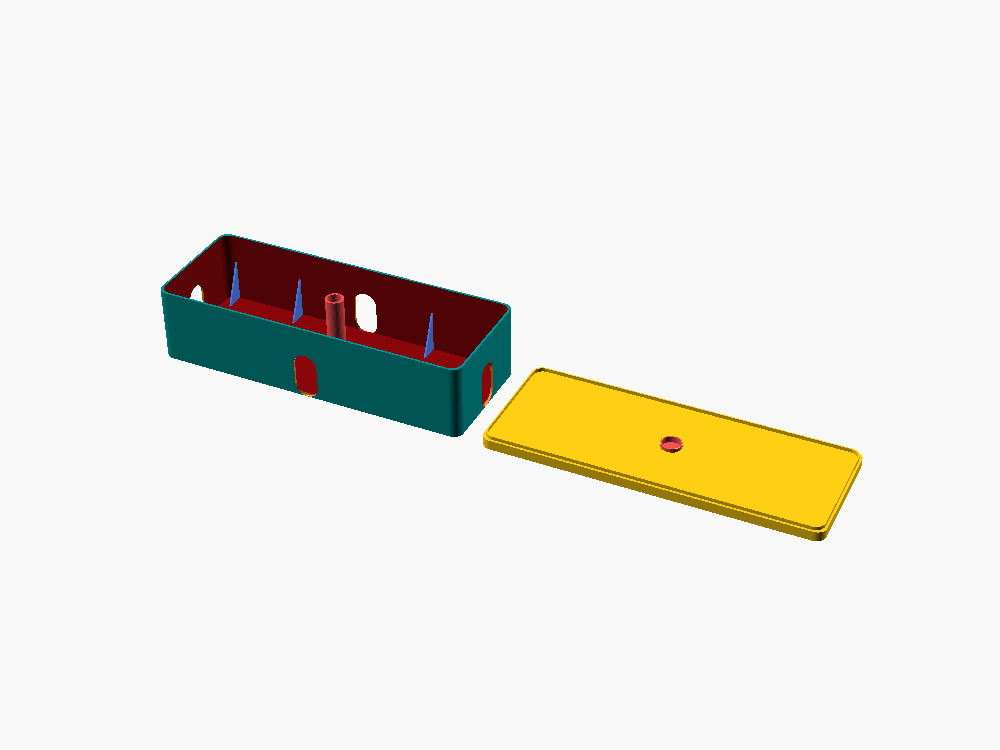
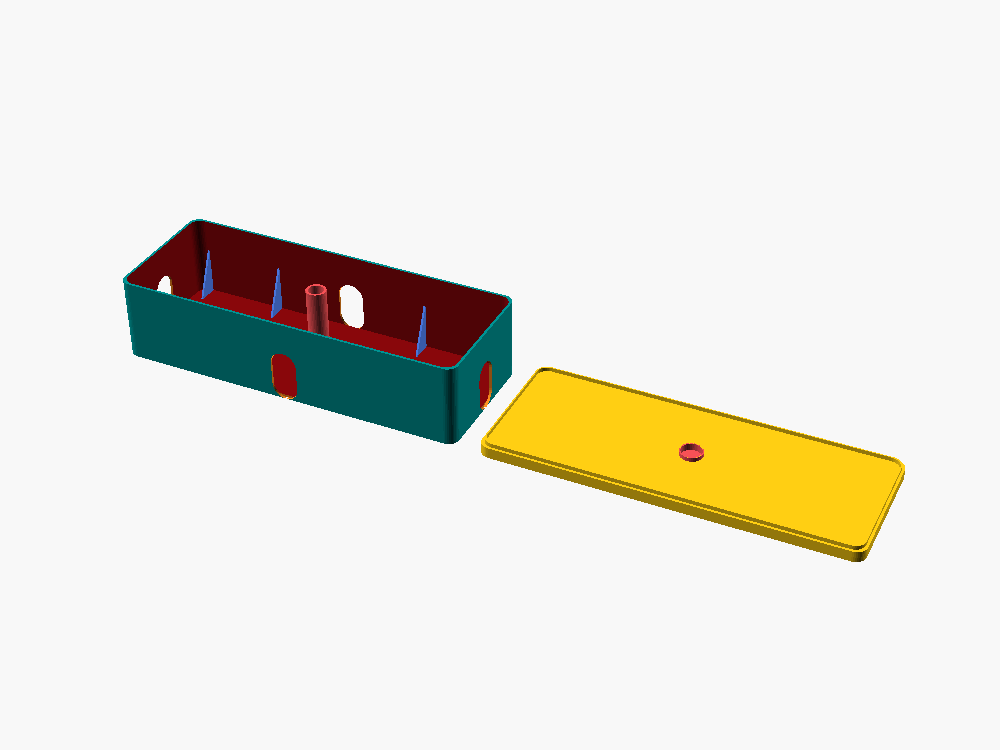
fix: preset JSON rejected by OpenSCAD, and renders that hid preset size
Three changes to the library generator, all visible in what it emits.

Booleans were written as Python's str(True), giving "True" where OpenSCAD
requires "true". Loading such a set fails with

  ERROR: Cannot apply Parameter Set 'conversion of data to type "b" failed'

and OpenSCAD then discards the whole set, not just the offending key. That
broke config.json for every preset carrying a boolean (gridfinity-module,
surge-strip-6-sliced, under-desk-passthrough), via exactly the -p/-P
invocation library/README.md documents. The STLs were unaffected because
defines() already lowercased bools, so only the JSON path was wrong.
Verified by rendering through both paths and comparing bounding boxes.

Preview renders passed --viewall, which zooms each model to fill the frame
and so discards scale. Five of the nine presets differ only in dimensions,
leaving a 265 mm strip and a 120 mm charger looking identical. The
box-and-lid view now renders at one fixed camera distance for every preset,
so the library reads as a size comparison. --autocenter stops centring once
--viewall is gone, and "Box and Lid" puts the lid at +x, so the camera is
aimed at the bounding box centre read back from the STL. The build warns
rather than cropping if a preset ever outgrows the calibrated distance.

Detail views keep --viewall, where only shape matters.

Adds cable-box-parametric.json beside the model: every preset in one file,
so OpenSCAD's Customizer offers them all on open and a web customizer has
[…]

diff --git a/scripts/build_library.py b/scripts/build_library.py
@@ -2,9 +2,9 @@
 """Regenerate the preset library: configs, STLs, preview renders, and the index.
 
 Presets are defined here as data, so adding one is a dict entry. Everything
-downstream (config.json, STLs, PNGs, notes, and library/README.md) is generated,
-which is what keeps the library from going stale the way the hand-made v1
-artifacts did.
+downstream (config.json, STLs, PNGs, notes, library/README.md, and the merged
+cable-box-parametric.json beside the model) is generated, which is what keeps
+the library from going stale the way the hand-made v1 artifacts did.
 
 Presets are organised by what the user physically has, not by dimensions,
 because nobody knows they need 260 x 100 x 60.
@@ -118,11 +118,24 @@ PRESETS = [
     },
 ]
 
+# (slug, part, camera rotation, fixed_scale)
+#
+# A fixed_scale view is rendered without --viewall so every preset shares one
+# camera distance and the library reads as a size comparison. --viewall zooms
+# each model to fill the frame, which made a 265 mm strip and a 120 mm charger
+# occupy identical space. Five of the nine presets differ only in dimensions,
+# so that flag was hiding the only difference they have.
 VIEWS = [
-    ("box-only", "Box Only", "0,0,0,55,0,25"),
-    ("lid-only", "Lid Only", "0,0,0,55,0,25"),
-    ("box-and-lid", "Box and Lid", "0,0,0,55,0,25"),
+    ("box-only", "Box Only", "55,0,25", False),
+    ("lid-only", "Lid Only", "55,0,25", False),
+    ("box-and-lid", "Box and Lid", "55,0,25", True),
 ]
+
+# Calibrated against the widest preset (surge-strip-6, 552 mm across box and
+# lid) so it frames with margin to spare. If a wider preset is ever added the
+# build warns rather than silently cropping it; raise both values then.
+SCALE_DIST = 1300
+SCALE_MAX_SPAN = 600.0
 
 
 def find_openscad() -> str:
@@ -161,7 +174,8 @@ def render(scad: str, out: Path, params: dict, extra: list[str]) -> bool:
     return True
 
 
-def stl_stats(path: Path) -> tuple[float, float, float]:
+def stl_bbox(path: Path):
+    """Axis-aligned bounds as ((x0,x1),(y0,y1),(z0,z1))."""
     xs, ys, zs = [], [], []
     with path.open(errors="replace") as fh:
         for line in fh:
@@ -169,7 +183,45 @@ def stl_stats(path: Path) -> tuple[float, float, float]:
             if line.startswith("vertex"):
                 _, x, y, z = line.split()
                 xs.append(float(x)); ys.append(float(y)); zs.append(float(z))
-    return (max(xs) - min(xs), max(ys) - min(ys), max(zs) - min(zs))
+    return (min(xs), max(xs)), (min(ys), max(ys)), (min(zs), max(zs))
+
+
+def bbox_size(b) -> tuple[float, float, float]:
+    return tuple(hi - lo for lo, hi in b)
+
+
+def bbox_centre(b) -> tuple[float, float, float]:
+    return tuple((lo + hi) / 2 for lo, hi in b)
+
+
+def as_param(v) -> str:
+    """Serialise one value for a Customizer parameter set.
+
+    The format stores everything as strings, but OpenSCAD still type-checks
+    them on load. Python's str(True) is "True", which OpenSCAD rejects with
+    'conversion of data to type "b" failed' and then discards the entire
+    parameter set, so booleans have to be lowercased.
+    """
+    if isinstance(v, bool):
+        return "true" if v else "false"
+    return str(v)
+
+
+def camera_args(rot: str, bbox, label: str) -> list[str]:
+    common = ["--imgsize=1000,750", "--colorscheme=Tomorrow"]
+    if bbox is None:
+        return common + ["--viewall", "--autocenter", f"--camera=0,0,0,{rot},0"]
+
+    cx, cy, cz = bbox_centre(bbox)
+    span = max(bbox_size(bbox))
+    if span > SCALE_MAX_SPAN:
+        print(f"      WARNING: {label} spans {span:.0f} mm, past the "
+              f"{SCALE_MAX_SPAN:.0f} mm that SCALE_DIST={SCALE_DIST} frames. "
+              f"Raise both or this render is cropped.")
+    # --autocenter is deliberately absent as well as --viewall: it stops
+    # centring once --viewall is gone, so aim at the bounding box centre
+    # directly. "Box and Lid" puts the lid at +x, so that centre is not 0.
+    return common + [f"--camera={cx:.2f},{cy:.2f},{cz:.2f},{rot},{SCALE_DIST}"]
 
 
 def main() -> int:
@@ -194,7 +246,7 @@ def main() -> int:
         # config.json carries every override, so it is unambiguous and survives
         # a change to the model defaults.
         cfg = {"fileFormatVersion": "1",
-               "parameterSets": {name: {k: str(v) for k, v in preset["params"].items()}}}
+               "parameterSets": {name: {k: as_param(v) for k, v in preset["params"].items()}}}
         (base / "config.json").write_text(json.dumps(cfg, indent=2) + "\n", encoding="utf-8")
 
         # Gridfinity features live on the underside of both parts, so a
@@ -202,25 +254,28 @@ def main() -> int:
         views = list(VIEWS)
         if preset["params"].get("Enable_Gridfinity_Bottom") or \
            preset["params"].get("Enable_Gridfinity_Lid_Top"):
-            views.append(("underside", "Box and Lid", "0,0,0,125,0,25"))
+            views.append(("underside", "Box and Lid", "125,0,25", False))
 
         dims = None
-        for slug, part, cam in views:
+        for slug, part, rot, fixed in views:
             params = dict(preset["params"], Part_To_Render=part)
+            bbox = None
             if slug != "underside":
                 stl = base / "stl" / f"{name}_{slug}.stl"
                 if not args.no_stl:
-                    if render(scad, stl, params, []) and slug == "box-only":
-                        dims = stl_stats(stl)
-                elif slug == "box-only" and stl.exists():
-                    # Reuse the existing STL so a --no-stl rebuild still gets
-                    # dimensions for the notes and the index table.
-                    dims = stl_stats(stl)
+                    render(scad, stl, params, [])
+                # Read back what we need: box-only gives the printed envelope
+                # for the notes and index, and a fixed-scale view needs its own
+                # bounds to aim the camera. Reusing an existing STL is what lets
+                # --no-stl still produce both.
+                if stl.exists() and (fixed or slug == "box-only"):
+                    bbox = stl_bbox(stl)
+                    if slug == "box-only":
+                        dims = bbox_size(bbox)
             if not args.no_png:
                 png = base / "images" / f"{name}_{slug}.png"
                 render(scad, png, params,
-                       ["--imgsize=1000,750", "--colorscheme=Tomorrow",
-                        "--viewall", "--autocenter", f"--camera={cam},0"])
+                       camera_args(rot, bbox if fixed else None, f"{name}/{slug}"))
         if dims:
             print(f"      box {dims[0]:.1f} x {dims[1]:.1f} x {dims[2]:.1f} mm")
 
@@ -240,6 +295,17 @@ def main() -> int:
         size = f"{dims[0]:.0f} x {dims[1]:.0f} x {dims[2]:.0f}" if dims else "n/a"
         index_rows.append((name, preset["title"], preset["fits"], size))
 
+    # One merged parameter-set file next to the model. OpenSCAD's Customizer
+    # reads named sets from JSON, so this offers every preset in the dropdown
+    # without hunting for a per-preset file, and it is what a web customizer
+    # can load too. Built from PRESETS rather than the filtered list, so
+    # --only cannot silently truncate it to a single entry.
+    merged = {"fileFormatVersion": "1",
+              "parameterSets": {p["name"]: {k: as_param(v) for k, v in p["params"].items()}
+                                for p in PRESETS}}
+    (REPO / "cable-box-parametric.json").write_text(
+        json.dumps(merged, indent=2) + "\n", encoding="utf-8")
+
     readme = ["# Preset Library", "",
               "Ready-to-print configurations for common jobs. Each preset carries a",
               "complete `config.json`, STLs, preview renders, and notes.", "",
@@ -249,16 +315,23 @@ def main() -> int:
     for name, title, fits, size in index_rows:
         readme.append(f"| [`{name}`]({name}/) | {title} | {fits} | {size} |")
     readme += ["", "## Using a preset", "",
-               "Load the parameter set directly:", "", "```bash",
+               "Every preset is also collected into `cable-box-parametric.json` beside",
+               "the model, so opening `cable-box-parametric.scad` in OpenSCAD and then",
+               "the Customizer (F3) offers all of them in the preset dropdown.", "",
+               "From the command line, against the merged file:", "", "```bash",
+               "openscad -o out.stl cable-box-parametric.scad \\",
+               "  -p cable-box-parametric.json -P <preset>", "```", "",
+               "Or against a single preset's own copy:", "", "```bash",
                "openscad -o out.stl cable-box-parametric.scad \\",
                "  -p library/<preset>/config.json -P <preset>", "```", "",
-               "Or open `cable-box-parametric.scad` in OpenSCAD, open the Customizer",
-               "(F3), and load the preset's `config.json` from the preset dropdown.", "",
+               "Both files are the Customizer's native parameter-set format, so a set",
+               "saved by desktop OpenSCAD can be dropped straight back in.", "",
                "## Adding a preset", "",
                "Add an entry to `PRESETS` in `scripts/build_library.py` and rerun it.",
                "Do not hand-edit generated files.", ""]
     (LIB / "README.md").write_text("\n".join(readme), encoding="utf-8")
-    print(f"\nWrote {len(index_rows)} presets and library/README.md")
+    print(f"\nWrote {len(index_rows)} presets, library/README.md, "
+          f"and cable-box-parametric.json ({len(PRESETS)} sets)")
     return 0
 
 

diff --git a/library/README.md b/library/README.md
@@ -20,15 +20,26 @@ cannot drift from the model the way hand-made artifacts do.
 
 ## Using a preset
 
-Load the parameter set directly:
+Every preset is also collected into `cable-box-parametric.json` beside
+the model, so opening `cable-box-parametric.scad` in OpenSCAD and then
+the Customizer (F3) offers all of them in the preset dropdown.
+
+From the command line, against the merged file:
+
+```bash
+openscad -o out.stl cable-box-parametric.scad \
+  -p cable-box-parametric.json -P <preset>
+```
+
+Or against a single preset's own copy:
 
 ```bash
 openscad -o out.stl cable-box-parametric.scad \
   -p library/<preset>/config.json -P <preset>
 ```
 
-Or open `cable-box-parametric.scad` in OpenSCAD, open the Customizer
-(F3), and load the preset's `config.json` from the preset dropdown.
+Both files are the Customizer's native parameter-set format, so a set
+saved by desktop OpenSCAD can be dropped straight back in.
 
 ## Adding a preset
 
